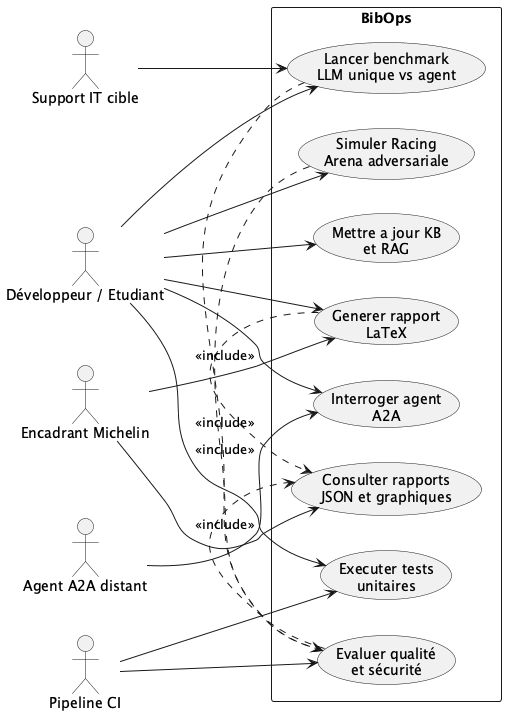
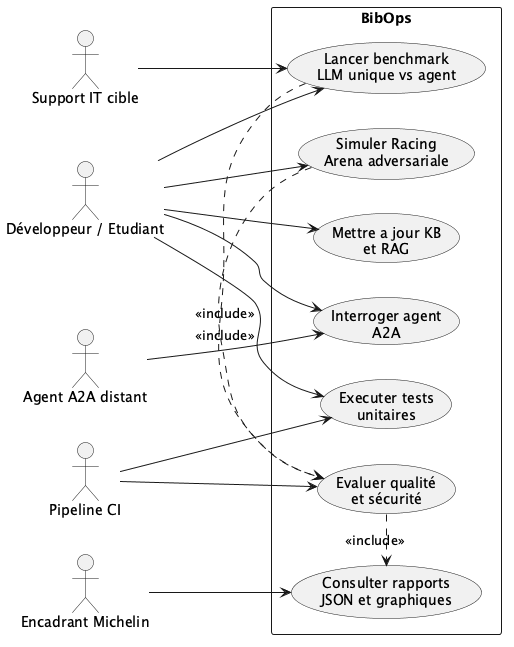
rapport mi corrige

diff --git a/docs/report/sections/05_design_patterns.tex b/docs/report/sections/05_design_patterns.tex
@@ -2,29 +2,20 @@
 %  Section 5 -- Design patterns
 % ============================================================
 
-\chapter{Patrons de conception et modèles d'analyse}
+\chapter{Patrons de conception }
 
-\section{Cas d'utilisation}
+\section{Choix de conception}
 
-Le système vise plusieurs acteurs : l'étudiant ou développeur qui lance les
-benchmarks, l'encadrant qui analyse les résultats, le support IT cible, les
-agents distants A2A et le pipeline CI. Les principaux cas d'utilisation sont
-representes ci-dessous.
+Le choix le plus important est la séparation entre le raisonnement du modèle et
+les sources verifiees. Les outils retournent des données bornees, les décisions
+de l'agent sont structurées et les traces conservent les appels. Cette
+séparation rend l'évaluation possible : lorsqu'une réponse est mauvaise, on peut
+identifier si l'erreur vient du routage, de l'outil, du modèle ou du juge.
 
-\plantumldiagram{use_cases}{Diagramme des cas d'utilisation de \bibopsname{}.}{fig:use-cases}
-
-\section{Diagramme de classes d'analyse}
-
-Le diagramme d'analyse se concentre sur les concepts metier : ticket, agent,
-outil, trace, évaluateur, résultat de benchmark et politique composite. Il ne
-cherche pas à représenter chaque classe Python, mais les responsabilités qui
-structurent la solution.
-
-\plantumldiagram{classes_analyse}{Diagramme de classes d'analyse.}{fig:classes-analyse}
-
-\section{Patrons identifiés}
-
-Plusieurs patrons de conception apparaissent dans le dépôt.
+Le second choix est le recours à des contrats simples. SQLite suffit pour un
+statut serveur, JSON suffit pour une knowledge base de prototype, ChromaDB
+permet le RAG sans infrastructure lourde, et Typer fournit une CLI claire. Cette
+sobriété réduit le nombre de composants à maintenir et facilite les tests.
 
 \begin{table}[H]
 \centering
@@ -44,17 +35,14 @@ Template Method & Les runners de benchmark partagent la sequence charger, exécu
 \label{tab:patterns}
 \end{table}
 
-\plantumldiagram{design_patterns}{Vue PlantUML des patrons de conception.}{fig:design-patterns}
 
-\section{Choix de conception}
+\section{Le système vise plusieurs acteurs : [Cas d'utilisation] } 
 
-Le choix le plus important est la séparation entre le raisonnement du modèle et
-les sources verifiees. Les outils retournent des données bornees, les décisions
-de l'agent sont structurées et les traces conservent les appels. Cette
-séparation rend l'évaluation possible : lorsqu'une réponse est mauvaise, on peut
-identifier si l'erreur vient du routage, de l'outil, du modèle ou du juge.
+\plantumldiagram{use_cases}{Diagramme des cas d'utilisation de \bibopsname{}.}{fig:use-cases}
 
-Le second choix est le recours à des contrats simples. SQLite suffit pour un
-statut serveur, JSON suffit pour une knowledge base de prototype, ChromaDB
-permet le RAG sans infrastructure lourde, et Typer fournit une CLI claire. Cette
-sobriété réduit le nombre de composants à maintenir et facilite les tests.
+\section{Les concepts metier : [Diagramme de classes d'analyse]}
+
+\plantumldiagram{classes_analyse}{Diagramme de classes d'analyse.}{fig:classes-analyse}
+
+
+

diff --git a/docs/report/sections/04_organisation_equipe.tex b/docs/report/sections/04_organisation_equipe.tex
@@ -13,45 +13,20 @@ la knowledge base, le moteur de scoring, les tests A/B et la consolidation des
 scores. Ayoub a travaillé sur la recherche KB, le serveur et client MCP,
 l'intégration Copilot API, le protocole A2A et la preparation de la soutenance.
 
-\plantumldiagram{gantt_equipe}{Planification Gantt du projet sous PlantUML.}{fig:gantt-equipe}
+\plantumllandscape{gantt_equipe}
+{Planification Gantt du projet sous PlantUML.}
+{fig:gantt-equipe}
 
 Cette répartition a permis de paralléliser les sujets tout en gardant un point
 de convergence hebdomadaire : chaque fonctionnalite devait produire soit une
 commande CLI, soit un artefact de benchmark, soit un test automatisable.
 
-\section{Méthode de collaboration}
 
-Le dépôt Git a servi de point de synchronisation. Les branches de travail
-étaient associées aux lots fonctionnels : évaluation, RAG, MCP, A2A, Racing
-Arena, documentation et refactoring. Les merges étaient accompagnés de tests
-unitaires afin d'éviter les régressions sur les contrats internes.
+\section{Méthode de collaboration et pipeline CI/CD}
 
-La logique suivie est proche d'un cycle court :
+L'équipe a organisé son travail autour de branches Git dédiées à chaque lot fonctionnel, avec des merges systématiquement validés par des tests unitaires pour éviter les régressions. Le cycle de développement suivait des étapes courtes : choix du ticket, développement sur branche, tests locaux, demande de merge, corrections, puis synchronisation et régénération des artefacts si besoin.
 
-\begin{enumerate}
-  \item créer ou choisir un ticket de travail ;
-  \item développer sur une branche dédiée ;
-  \item lancer les tests et les linters localement ;
-  \item ouvrir une demande de merge ;
-  \item corriger les retours et synchroniser avec la branche principale ;
-  \item regenerer les artefacts de benchmark lorsque le comportement change.
-\end{enumerate}
-
-\section{Pipeline CI/CD}
-
-Le pipeline CI/CD GitHub Actions sert d'assurance qualité. Il installe les
-dépendances runtime et développement, exécute Ruff, lance les tests unitaires et
-vérifie les seuils de couverture. Les artefacts lourds ou générés ne sont pas
-faits pour être versionnés directement : ils doivent être régénérables à partir
-des commandes du projet.
+Le pipeline CI/CD garantissait le respect des standards (style, tests, gates), détectait rapidement les conflits entre travaux parallèles et assurait la traçabilité des résultats sur une base testée et reproductible.
 
 \plantumldiagram{ci_cd_pipeline}{Pipeline Git, CI/CD et production des artefacts.}{fig:ci-cd}
 
-\section{Rôle du CI dans la synchronisation}
-
-Le CI a joué trois rôles pratiques. D'abord, il force une définition commune du
-minimum acceptable : style, imports, tests unitaires et gates. Ensuite, il
-détecte rapidement les conflits implicites entre travaux paralleles, par exemple
-lorsqu'une modification du contrat de l'agent casse un test de benchmark. Enfin,
-il documente l'état du projet au moment des rendus : les résultats du rapport
-s'appuient sur une base testée, pas sur une exécution manuelle isolée.

diff --git a/docs/report/preamble.tex b/docs/report/preamble.tex
@@ -45,6 +45,7 @@
 \newcolumntype{C}{>{\centering\arraybackslash}X}
 
 \usepackage{graphicx}
+\usepackage{pdflscape}
 \usepackage{subcaption}
 \usepackage{float}
 
@@ -148,4 +149,33 @@
     \caption{#3}
     \label{#4}
   \end{figure}
+}
+
+
+\newcommand{\plantumllandscape}[3]{%
+  \begin{landscape}
+  \begin{figure}[p]
+    \centering
+    \IfFileExists{diagrams/rendered/#1.png}{%
+      \includegraphics[
+        width=0.95\linewidth,
+        height=0.85\textheight,
+        keepaspectratio
+      ]{diagrams/rendered/#1.png}%
+    }{%
+      \fbox{%
+        \parbox{0.86\textwidth}{%
+          \centering
+          \vspace{0.4em}
+          \textbf{Diagramme PlantUML}\\
+          Source : \file{docs/report/diagrams/#1.puml}\\
+          Image rendue optionnelle : \file{docs/report/diagrams/rendered/#1.png}
+          \vspace{0.4em}
+        }%
+      }%
+    }%
+    \caption{#2}
+    \label{#3}
+  \end{figure}
+  \end{landscape}
 }

diff --git a/docs/report/sections/02_description_probleme.tex b/docs/report/sections/02_description_probleme.tex
@@ -28,7 +28,7 @@ l'avantage d'être simple, mais elle présente trois limites.
   la messagerie est en panne dans l'environnement local.
   \item \textbf{Risque d'hallucination.} Le modèle peut proposer des procédures,
   numéros ou causes plausibles mais non vérifiées.
-  \item \textbf{Évaluation trompeuse.} Une réponse bien redigee peut être
+  \item \textbf{Évaluation trompeuse.} Une réponse bien rédigée peut être
   insuffisante si elle ne respecte pas les sources ou les contraintes de
   sécurité.
 \end{itemize}
@@ -71,11 +71,3 @@ Le score composite est complete par des gates bloquants : qualité minimale,
 sécurité minimale et seuils maximaux pour certains risques. Cette logique evite
 qu'une architecture rapide ou peu coûteuse soit validée si elle répond mal.
 
-\section{Problème de reproductibilité}
-
-Les LLM rendent l'experimentation fragile : les modèles changent, les APIs sont
-limitees par quota, les juges peuvent varier et les outils externes peuvent
-tomber en erreur. Le banc doit donc enregistrer les configurations, produire des
-artefacts JSON, générer des graphiques et separer les tests unitaires des appels
-réseau. Cette exigence justifie l'investissement dans une CLI, une structure de
-dépôt claire et un pipeline CI.

diff --git a/docs/report/sections/01_introduction.tex b/docs/report/sections/01_introduction.tex
@@ -74,12 +74,3 @@ Les contributions principales sont :
   \item une suite de tests unitaires permettant de vérifier le code sans
   dépendance à un modèle LLM réel.
 \end{itemize}
-
-\section{Périmètre du rapport}
-
-Le rapport decrit le dépôt dans son état du 13 mai 2026. Les résultats sont
-extraits des artefacts présents sous \file{data/outputs/benchmark/}. Ils
-incluent la campagne principale \file{comparison_results.json}, les benchmarks
-MCP, les campagnes A2A, les tests Kaggle locaux, les tests de biais de position
-et le rapport adversarial de la Racing Arena. Les identifiants d'acces aux
-agents externes ne sont pas reproduits.

diff --git a/docs/report/sections/06_resultats.tex b/docs/report/sections/06_resultats.tex
@@ -7,8 +7,7 @@
 \section{Conditions expérimentales}
 
 Les résultats principaux proviennent des artefacts locaux sous
-\file{data/outputs/benchmark/}. La campagne principale a été générée le
-13 mai 2026. Elle cible le domaine IT, utilise \code{phi3:latest} via Ollama
+\file{data/outputs/benchmark/}. L'évaluation cible le domaine IT, utilise \code{phi3:latest} via Ollama
 pour le LLM unique et l'agent, active un premier outil force pour l'agent et
 emploie \code{gpt-5.2} comme juge qualité.
 
@@ -23,7 +22,7 @@ emploie \code{gpt-5.2} comme juge qualité.
 \file{benchmark_mcp_tools.json} & Variante avec score de pertinence et F1. \\
 \file{a2a_agents_results.json} & Exploration des agents A2A OpenClaw. \\
 \file{security_race_report.json} & Analyse adversariale de la Racing Arena. \\
-\file{kaggle/local_kaggle_exam_report_20260513_130503.json} & Rejeu local Kaggle, 16 questions. \\
+\file{kaggle/local_kaggle_exam_report_*.json} & Rejeu local Kaggle, 16 questions. \\
 \file{position_bias_statements_result.json} & Test de biais de position sur fact-checking. \\
 \bottomrule
 \end{tabularx}

diff --git a/docs/report/sections/03_solution.tex b/docs/report/sections/03_solution.tex
@@ -81,7 +81,6 @@ ou \(Q\) est la qualité, \(Sec\) la sécurité, \(F\) le score FinOps, \(L\) la
 latence normalisee et \(G\) le score GreenOps. Le score est rapporte sur 100 et
 complete par un verdict \verdict{PASS} ou \verdict{FAIL}.
 
-\benchmarkfigure[0.72\textwidth]{composite_weights.png}{Poids de la politique composite.}{fig:composite-weights}
 
 \section{A2A, MCP et Racing Arena}
 